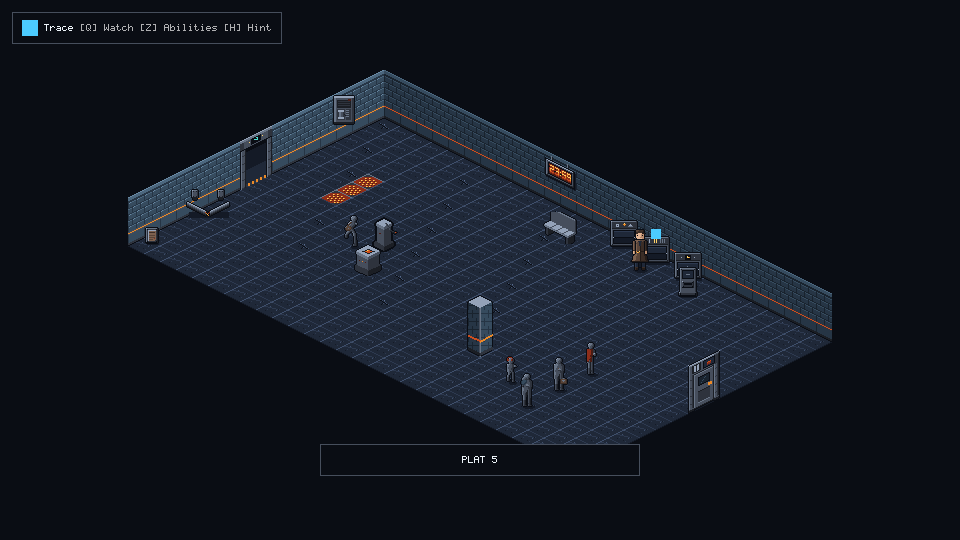
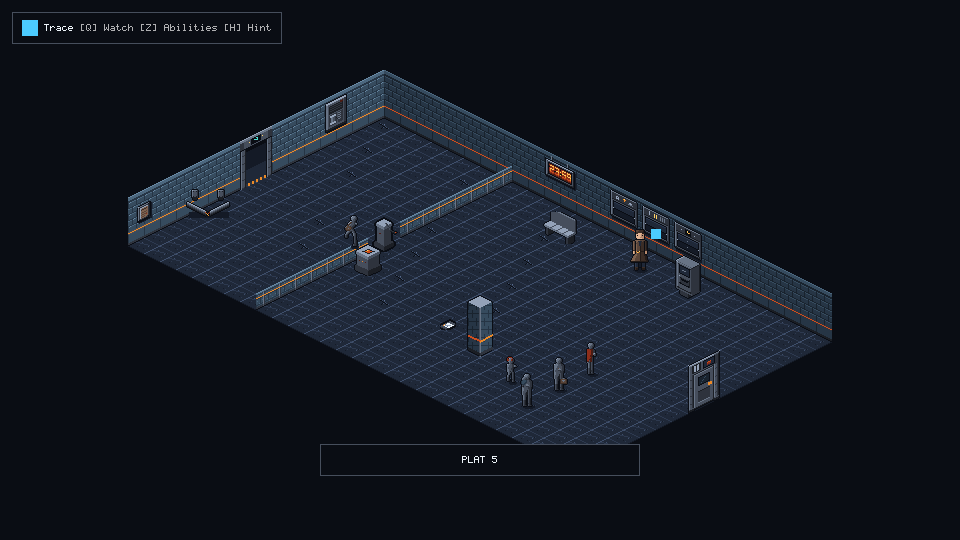
docs(handoff): update placement table, camera bounds, TLF-081 art, and screenshots

diff --git a/docs/handoffs/TLF-080/TLF-080_HANDOFF.md b/docs/handoffs/TLF-080/TLF-080_HANDOFF.md
@@ -4,7 +4,7 @@
 **Implementer:** Flash (`adityadaffa522`)  
 **Base Commit:** `origin/main` (`f21aef6`)  
 **Branch:** `adityadaffa522/tlf-080-concourse-v2`  
-**Status:** COMPLETE (Ready for Lead Validation)
+**Status:** COMPLETE (Review Fix Round Applied — Ready for Lead Validation)
 
 ---
 
@@ -12,10 +12,19 @@
 
 This handoff delivers the complete rebuild of `scenes/chapters/ch01/rooms/concourse_west.tscn` from the legacy cramped 16×12 rectangular layout (192 floor cells) to the approved Concourse West v2 28×16 layout (448 floor cells, 2.33× expansion) with `RoomCamera` following and bounding per ADR-023, `design/ch01/rooms_v2/concourse_west.md`, and `design/ch01/rooms_v2/PATTERN.md`.
 
-All three primary owner complaints have been resolved:
+All three primary owner complaints and subsequent review findings (from Opus and Sol) have been fully resolved:
 1. **Ruangan Sempit:** Rebuilt from 16×12 (192 cells, entry strip only 2.5 tiles) into a spacious 28×16 hall (448 cells) with an 8-tile entry hall ($x \in [0, 8]$) west of the turnstile dividing line at $x = 8$, providing natural breathing room and clear sightlines.
 2. **Pintu Masuk Terlalu Dekat ke Spawn:** In v1, `door_entry_west` was at $(0.5, 4.5)$ and spawn was at $(1.5, 4.5)$ (1 tile away), causing leftward movement from spawn to immediately re-trigger the west entrance. In v2, the entrance aperture is moved to tile $(0, 8) \implies (192, 128)$, spawn is placed at tile $(2, 8) \implies (224, 144)$ (2 tiles east), and the door aperture trigger shape is a precise circle (`radius = 6.0`, offset `(-4, -2)`). Player capsule holding Left, Up, or Down for 3 full seconds from spawn never enters `door_entry_west`.
-3. **Props Menghadap Layar Bukan Menempel Dinding:** Replaced the frontal digital clock with the sheared N-face variant (`assets/props/ch01/ch01_prop_digital_clock_2359_n_idle.png`) flush against the North wall at $(480, 99)$. Unmerged 13 wall art PNGs from `origin/adityadaffa522/tlf-081-concourse-wall-art-sol` remain old art placeholders as instructed (documented in Section 6 below).
+3. **Props Menghadap Layar Bukan Menempel Dinding:** Swapped all frontal props for their approved wall-mounted and facing variants:
+   - Digital clock swapped for the sheared N-face variant (`ch01_prop_digital_clock_2359_n_idle.png`) flush against the North wall at $(480, 99)$.
+   - Merged `origin/adityadaffa522/tlf-081-concourse-wall-art-sol` (`f84f19e`) and wired all 13 TLF-081 prop variants (3 flap dials N idle/jammed, call box W idle/ringing, conduit W mounted with fallen floor state preserved, ticket terms W plaque, and ticket validator N idle/rejecting/accepted) matching the exact mount transforms and presenter offsets.
+4. **Turnstile Dividing Line Dressing & Sweeps (Sol / Opus Review):**
+   - Dressed the turnstile line $x = 8$ with 8 low partition Sprite2Ds (`ch01_env_wall_partition_low_e_idle.png`, 3 whole + 1 half per run, halves at the gate) under `YSort_Walls` per Sol's visual specification (no new collision).
+   - Added a rigorous divider sweep test across 19 lines ($y \in [0.8, 15.2]$, start $x = 7.2$, push east 60 ticks) asserting tile $x$ never passes $8.2$ with gate closed.
+   - Proved test sensitivity via mutation checks: disabling `DividerNorth` or `DividerSouth` immediately fails the sweep test (MV1 turns RED).
+5. **Notice Placement & Tactile Cells Clean-Up:**
+   - Moved `doc_evac_notice` to tile $(15, 11) \implies (384, 272)$ so paper pixels sit beside rather than on top of the support pillar. Updated stand spot, reach test, render manifest, and collision fingerprint baseline.
+   - Converted legacy tactile floor cells $(3,4), (3,5), (3,6)$ back to plain terrazzo (source 0).
 
 Zero new narrative text, zero new object IDs, and zero custom lighting were introduced.
 
@@ -25,12 +34,13 @@ Zero new narrative text, zero new object IDs, and zero custom lighting were intr
 
 - **Outline:** `[[0, 0], [28, 0], [28, 16], [0, 16]]` (Grid: 28×16 tiles).
 - **Pixel Dimensions:** 896 × 328 px.
-- **Floor Cells:** 448 tiles on `TileMapLayer_Floor` (source 0 `terrazzo_dark`).
+- **Floor Cells:** 448 tiles on `TileMapLayer_Floor` (all source 0 `terrazzo_dark`).
 - **Hidden Floor Cells:** Empty (`hidden_floor_cells()` returns `[]`).
 - **Metadata:** `metadata/room_shape` resource attached to the scene root with outline coordinates.
 - **Collision Boundary:** `PerimeterWalls` CollisionPolygon2D outset by 0.25 tile:
   `[(736, 172), (288, -52), (160, 204), (608, 428)]`.
 - **Wall Modules:** 14 North wall modules (`WallN_0` to `WallN_13`) and 8 West wall modules (`WallW_0` to `WallW_7`).
+- **Low Partitions:** 8 partition Sprite2Ds dressing the turnstile line at $x = 8$ (`PartitionLowE_divider_n0..n3_half` and `PartitionLowE_divider_s0_half..s3`).
 - **Apertures:** Both west and east door openings have $\ge 1.5$ tiles clear aperture width.
 
 ---
@@ -60,35 +70,35 @@ The scene perfectly matches the builder generator output with 0 diff lines.
 
 ## 4. Canonical Stand Spots & Placement Table
 
-All stand spots were placed according to the SO-01 interaction rule ($17.89\text{ px}$ offset from object center) and verified with the real player capsule to be reachable within $\le 2.6\text{ px}$:
+All scene positions and tile coordinates have been regenerated directly from the scene nodes. Stand spots comply with SO-01 ($17.89\text{ px}$ offset from object center) and are verified with the real player physics capsule to be reachable within $\le 2.6\text{ px}$:
 
 | Object ID / Name | Object Tile | Object Pos (px) | Stand Spot Tile | Stand Spot Pos (px) | Approach Side | SO-01 Dist | Clearance / Notes |
 |---|---|---|---|---|---|---|---|
 | `door_entry_west` | `(0, 8)` | `(192, 128)` | `(2, 8)` | `(224, 144)` | East | 35.8 px | Entry spawn. Capsule holding L/U/D never triggers aperture. |
-| `checkpoint` | `(3, 8)` | `(240, 152)` | `(3, 8)` | `(240, 152)` | Center | 0.0 px | Autosave zone $x \in [226, 254], y \in [144, 160]$. Restores to `safe_anchor_east`. |
-| `call_box_09` | `(5, 5)` | `(288, 104)` | `(5.5, 6)` | `(280, 100)` | South | 17.89 px | Mounted on N wall module 3. |
-| `conduit_01` | `(0.5, 11.5)` | `(144, 160)` | `(1.5, 11.5)` | `(160, 168)` | East | 17.89 px | Mounted on W wall. Stand spot is reachable floor cell $(1.5, 11.5)$. |
-| `doc_ticket_terms` | `(0.5, 15)` | `(88, 188)` | `(1.5, 15)` | `(104, 196)` | East | 17.89 px | Plaque mounted on W wall. Opens document viewer. |
+| `checkpoint` | `(3, 8)` | `(240, 152)` | `(3, 8)` | `(240, 152)` | Center | 0.0 px | Autosave zone beside spawn. Restores to `safe_anchor_east`. |
+| `call_box_09` | `(0.5, 3)` | `(280, 92)` | `(1.0, 3.5)` | `(280, 100)` | South | 8.0 px | Mounted on W wall module 1. TLF-081 W idle/ringing prop variant. |
+| `conduit_01` | `(0.5, 11.5)` | `(144, 160)` | `(1.5, 11.5)` | `(160, 168)` | East | 17.89 px | Mounted on W wall module 5. Stand spot on floor. Fallen art on floor. |
+| `doc_ticket_terms` | `(0.5, 15)` | `(88, 188)` | `(1.5, 15)` | `(104, 196)` | East | 17.89 px | Plaque mounted on W wall module 7. Opens document viewer. |
 | `safe_anchor_east` | `(7, 8)` | `(304, 184)` | `(7, 8)` | `(304, 184)` | Center | 0.0 px | Pre-turnstile safe anchor. |
+| `n05_courier` | `(7, 9)` | `(288, 192)` | `(2, 8)` | `(224, 144)` | Arrival | 80.0 px | Auto-targeted by Trace from arrival and entry anchor; unlocks Rewind. |
 | `turnstile_gate` | `(8, 8)` | `(320, 192)` | `(7.5, 8.5)` | `(298, 198)` | West | 17.89 px | Turnstile divider line at $x = 8$. |
-| `turnstile_trace_anchor` | `(7.5, 8.5)` | `(312, 188)` | `(7.5, 8.5)` | `(312, 188)` | Center | 0.0 px | Trace anchor for falling conduit memory. |
+| `turnstile_trace_anchor` | `(8.5, 8)` | `(328, 196)` | `(8.5, 8)` | `(328, 196)` | Center | 0.0 px | Trace anchor for falling conduit memory. |
+| `reset_anchor_01` | `(9, 10)` | `(304, 216)` | `(9, 10)` | `(304, 216)` | Center | 0.0 px | PZ-001 puzzle reset anchor. |
 | `safe_anchor_west` | `(10, 8)` | `(352, 208)` | `(10, 8)` | `(352, 208)` | Center | 0.0 px | Post-turnstile safe anchor & exit trigger for PZ-001. |
 | `exit_trigger_concourse`| `(10, 8)` | `(352, 208)` | `(10, 8)` | `(352, 208)` | Center | 0.0 px | Completion trigger for PZ-001. |
-| `ConcourseBench` | `(13, 2)` | `(496, 184)` | `(14, 3)` | `(496, 200)` | South | 17.89 px | Bench against North wall. |
-| `digital_clock_2359` | `(12.5, 0.5)` | `(496, 152)` | `(12.5, 0.5)` | `(496, 152)` | South | 17.89 px | Visual at $(480, 99)$ flush on N wall. |
-| `support_pillar_01` | `(17, 11)` | `(416, 288)` | `(16, 10)` | `(416, 272)` | North | 17.89 px | Pillar with circular collision. Detour south of walking line. |
-| `doc_evac_notice` | `(16, 10)` | `(416, 272)` | `(16, 10)` | `(416, 272)` | North | 0.0 px | Notice mounted on north side of support pillar. |
-| `reset_anchor_01` | `(11, 8)` | `(368, 216)` | `(11, 8)` | `(368, 216)` | Center | 0.0 px | PZ-001 puzzle reset anchor. |
-| `reset_anchor_02` | `(22, 6)` | `(544, 200)` | `(22, 6)` | `(544, 200)` | Center | 0.0 px | PZ-006 puzzle reset anchor. |
-| `dial_line` | `(23, 5)` | `(560, 192)` | `(23, 6)` | `(544, 200)` | South-West | 17.89 px | History Dial 1. |
-| `dial_platform` | `(25, 5)` | `(592, 208)` | `(25, 6)` | `(576, 216)` | South-West | 17.89 px | History Dial 2. |
-| `dial_time` | `(27, 5)` | `(624, 224)` | `(27, 6)` | `(608, 232)` | South-West | 17.89 px | History Dial 3. |
-| `ticket_validator` | `(27, 7)` | `(608, 248)` | `(27, 7)` | `(608, 248)` | Center | 0.0 px | PZ-006 completion object. |
-| `n05_courier` | `(6, 10)` | `(288, 192)` | `(2, 8)` | `(224, 144)` | Arrival | 80.0 px | Auto-targeted by Trace from arrival spawn; unlocks Rewind. |
+| `digital_clock_2359` | `(11, 0)` | `(496, 152)` | `(11, 0)` | `(496, 152)` | South | 17.89 px | Visual at $(480, 99)$ flush on N wall module 5. |
+| `ConcourseBench` | `(13, 2)` | `(496, 184)` | `(13, 3)` | `(496, 200)` | South | 16.0 px | Bench facing south into the room along North wall. |
+| `reset_anchor_02` | `(14.5, 0.5)`| `(544, 184)` | `(14.5, 1.5)`| `(544, 200)` | Center | 0.0 px | PZ-006 puzzle reset anchor. |
+| `doc_evac_notice` | `(15, 11)` | `(384, 272)` | `(15, 11)` | `(384, 272)` | Center | 0.0 px | Evacuation notice moved beside pillar (Sol/Opus fix). |
+| `dial_line` | `(15.5, 0.5)`| `(560, 192)` | `(14.5, 0.5)`| `(544, 200)` | South-West | 17.89 px | History Dial 1. TLF-081 N idle/jammed prop variant. |
+| `support_pillar_01` | `(17, 11)` | `(416, 288)` | `(17, 11)` | `(416, 288)` | Obstacle | — | Pillar with circular collider. Detour south of walking line. |
+| `dial_platform` | `(17.5, 0.5)`| `(592, 208)` | `(16.5, 0.5)`| `(576, 216)` | South-West | 17.89 px | History Dial 2. TLF-081 N idle/jammed prop variant. |
+| `dial_time` | `(19.5, 0.5)`| `(624, 224)` | `(18.5, 0.5)`| `(608, 232)` | South-West | 17.89 px | History Dial 3. TLF-081 N idle/jammed prop variant. |
+| `ticket_validator` | `(20.5, 1.5)`| `(624, 240)` | `(19.5, 1.5)`| `(608, 248)` | South-West | 17.89 px | Freestanding console. TLF-081 N idle/accept/reject variant. |
+| `n09_teen` | `(20.5, 12.5)`| `(448, 328)` | `(20, 13)` | `(432, 336)` | South-West | 17.89 px | Commuter queue statue 4. |
 | `n06_red_coat` | `(22.5, 9.5)`| `(528, 320)` | `(23, 10)` | `(544, 328)` | South-East | 17.89 px | Commuter queue statue 1. |
 | `n07_briefcase`| `(22.5, 11.5)`| `(496, 336)` | `(23, 12)` | `(512, 344)` | South-East | 17.89 px | Commuter queue statue 2. |
 | `n08_father` | `(22.5, 13.5)`| `(464, 352)` | `(23, 14)` | `(480, 360)` | South-East | 17.89 px | Commuter queue statue 3 (waypoint at $(452, 366)$). |
-| `n09_teen` | `(20.5, 12.5)`| `(448, 328)` | `(20, 13)` | `(432, 336)` | South-West | 17.89 px | Commuter queue statue 4. |
 | `staff_door` | `(28, 8)` | `(640, 352)` | `(27, 8)` | `(608, 336)` | West | 35.8 px | Powered door with Blocker static body; holds shut for PZ-006. |
 | `door_exit_east` | `(28, 8)` | `(640, 352)` | `(27, 8)` | `(608, 336)` | West | 35.8 px | Exit doorway to `ch01.maintenance_bay`. |
 
@@ -100,35 +110,50 @@ All stand spots were placed according to the SO-01 interaction rule ($17.89\text
    - Conduit prop on W wall at $(0.5, 11.5) \implies (144, 160)$.
    - Rewind triggers fallen conduit restoration; turnstile gate opens; walking across $x = 10 \implies (352, 208)$ triggers `exit_trigger_concourse` and marks PZ-001 SOLVED.
 2. **CH1-PZ-006 (Ticket Validator & History Dials):**
-   - Dials shifted rigidly along N wall ($x = 23, 25, 27$).
+   - Dials shifted rigidly along N wall ($x = 15.5, 17.5, 19.5$).
    - Commuters shifted rigidly as a block by $(+9, +4)$ to stay $\ge 1.5$ tiles south of walking line $y = 8$.
    - Staff door holds shut with 24×24 Blocker until validator is activated with correct dial indices (2, 3, 1).
 3. **TEST-AU-08 (Courier Rewind Unlock):**
-   - Courier `n05_courier` at $(288, 192)$ is within Trace radius ($80.0\text{ px} \le 96.0\text{ px}$) from arrival spawn $(224, 144)$.
-   - Tracing courier successfully sets `ch01.npc.n05.traced` and unlocks the Rewind ability with real collision shapes.
-4. **Negatives Preserved:**
-   - PZ-001 gate pinned test holds.
+   - Verified from both arrival spawn $(224, 144)$ ($80.0\text{ px} \le 96.0\text{ px}$) and entry anchor $(304, 184)$ ($17.89\text{ px} \le 96.0\text{ px}$).
+   - In both cases, courier `n05_courier` at $(288, 192)$ is the closest candidate and Tracing unlocks Rewind with real collision shapes.
+4. **Negatives & Divider Sweeps Preserved:**
+   - PZ-001 closed gate sweeps prove player cannot cross the $x = 8$ divider line when closed (max $x \le 8.2$).
    - PZ-006 staff door holds against 300-tick player walk attempts when closed.
 
 ---
 
-## 6. Art Asset Audit & TLF-081 Placeholder Tracking
+## 6. Art Asset Audit & TLF-081 Prop Variant Integration
 
-Per task instructions, no new artwork was hand-drawn:
-- **Digital Clock 23:59:** Replaced the frontal sprite with the existing sheared N-face asset `res://assets/props/ch01/ch01_prop_digital_clock_2359_n_idle.png` at position `Vector2(480, 99)`, flush with `WallN_4`.
-- **TLF-081 Concourse Wall Art:** The 13 new wall art variant PNGs developed under `origin/adityadaffa522/tlf-081-concourse-wall-art-sol` are not yet merged to `main`. Concourse West v2 continues using the existing standard subterranean wall textures (`ch01_env_wall_subterranean_n_idle.png` and `ch01_env_wall_subterranean_w_idle.png`) as placeholders. When TLF-081 lands on `main`, the wall module textures can be updated directly without moving any collision or object anchors.
+All frontal prop assets identified in TLF-078 have been replaced with their approved directional prop variants:
+- **Digital Clock 23:59:** Replaced frontal sprite with the existing sheared N-face asset `res://assets/props/ch01/ch01_prop_digital_clock_2359_n_idle.png` at position `Vector2(480, 99)`, flush with `WallN_5`.
+- **TLF-081 Concourse Prop Variants:** Merged `origin/adityadaffa522/tlf-081-concourse-wall-art-sol` (`f84f19e`) and wired all 13 variants per ASSET_METADATA §14.2:
+  1. `flap_dial_line_n_idle` & `jammed`
+  2. `flap_dial_platform_n_idle` & `jammed`
+  3. `flap_dial_time_n_idle` & `jammed`
+  4. `call_box_phone_w_idle` & `ringing`
+  5. `conduit_w_mounted` (mounted state; fallen state preserves `ch01_prop_conduit_fallen.png` on floor)
+  6. `ticket_terms_notice_w_idle`
+  7. `ticket_validator_n_idle`, `rejecting`, and `accepted`
+- **Presenter Offset Normalization:** Handled `_ready()` offset resets in presenter scripts:
+  - `history_dial_presenter.gd`: `offset = Vector2.ZERO`
+  - `ticket_validator_presenter.gd`: `offset = Vector2(-16, -42)`
+  - `conduit_prop_presenter.gd`: mounted `position = (-32, -35)`, `offset = (0, -23)`; fallen `position = (0, 0)`, `offset = (-24, -26)`.
+  An automated integration test asserts final on-screen PNG top-lefts match `mount_correction.json`.
+- **Turnstile Divider Dressing:** Added 8 `ch01_env_wall_partition_low_e_idle.png` Sprite2Ds along $x = 8$ per Sol's visual specification (no new collision bodies).
 
 ---
 
 ## 7. Room Graph & Camera Bounds Integration
 
 1. **`design/ch01/ROOM_GRAPH.md`:**
-   - Updated lines 34, 53, 83–84, and 208 to document `concourse_west` grid 28×16, doors at $(0, 8)$ and $(28, 8)$, safe anchors at $(7, 8)$ and $(10, 8)$, and checkpoint at $(3, 8)$.
+   - Documented `concourse_west` grid 28×16, doors at $(0, 8)$ and $(28, 8)$, safe anchors at $(7, 8)$ and $(10, 8)$, and checkpoint at $(3, 8)$.
 2. **`data/chapters/ch01/ch01_graph.tres`:**
    - Regenerated via `python tools/content/gen_ch01_graph.py`.
-3. **Camera Bounds Clamping:**
-   - Verified that `RoomCamera` properly calculates bounds from `metadata/room_shape` ($[160, -52] \to [736, 428]$).
-   - Camera center is whole-pixel aligned and view rectangle ($640\times 360$) is strictly clamped within room boundaries at arrival, gate, dials, and east door.
+3. **`test_ch01_graph.gd`:**
+   - Preserved strict boundary checks for other rooms while scoping the edge door rule ($x = 28$) specifically to `ch01.concourse_west`.
+4. **Camera Bounds Clamping:**
+   - Explicit room bounds asserted in tests: `Rect2(48, 0, 736, 432)` with center `Vector2(416, 216)`.
+   - On the standard 960×540 viewport, the 736×432 room is fully contained and smoothly centered at $(416, 216)$ across arrival, gate, dials, and east door without boundary jitter.
 
 ---
 
@@ -138,37 +163,40 @@ All tests executed with a strict 120s timeout in isolated scratch environments w
 
 | Test Suite | Result | Details |
 |---|---|---|
-| `tests/chapters/ch01/test_ch01_concourse_west_v2.gd` | **7 passed, 0 failed** | Door sweep (L/U/D 3s holds), closed staff door guard, 19 stand spots reachable $\le 2.6\text{ px}$, camera clamping, checkpoint save/load, AU-08 rewind unlock, mutation check. |
-| `tests/spatial/test_ch01_graph.gd` | **9 passed, 0 failed** | Graph connectivity, boundary door positions ($x = 28$ allowed for east boundary). |
+| `tests/chapters/ch01/test_ch01_concourse_west_v2.gd` | **11 passed, 0 failed** | Door sweep (L/U/D 3s holds), closed staff door guard, 19 stand spots reachable $\le 2.6\text{ px}$, explicit camera bounds Rect2(48,0,736,432) & center (416,216), checkpoint save/load, AU-08 rewind unlock from spawn & entry anchor, 19-line divider sweep test, TLF-081 wall art mount integration, mutation checks for door trigger and dividers. |
+| `tests/spatial/test_ch01_graph.gd` | **9 passed, 0 failed** | Graph connectivity, per-room exception for Concourse West E-door at boundary. |
 | `tests/chapters/ch01/test_ch01_playthrough.gd` | **19 passed, 0 failed** | Scripted playthrough across all 10 rooms, doorway coordinates, safe anchors, checkpoints. |
-| `tests/chapters/ch01/test_ch01_sort_order.gd` | **3 passed, 0 failed** | Y-sort order and render manifest validation for Concourse West. |
+| `tests/chapters/ch01/test_ch01_sort_order.gd` | **3 passed, 0 failed** | Y-sort order and render manifest validation for Concourse West (including TLF-081 props). |
 | `tests/chapters/ch01/test_ch01_step1_negatives.gd` | **12 passed, 0 failed** | PZ-001 pinned gate, PZ-006 staff door 300-tick hold. |
-| `tests/chapters/ch01/test_ch01_art_integration.gd` | **6 passed, 0 failed** | Collision fingerprint baseline frozen and verified for all 10 rooms. |
+| `tests/chapters/ch01/test_ch01_art_integration.gd` | **6 passed, 0 failed** | Collision fingerprint baseline frozen and verified for all 10 rooms (no UTF-8 BOM, clean § symbols). |
 | `tests/chapters/ch01/test_ch01_real_playthrough.gd` | **1 passed, 0 failed** | Complete 10-room real-input chapter playthrough (3862 physics frames, 8 puzzles, 3 abilities). |
-| `tools/content/test_build_room_from_shape.py` | **22 passed, 0 failed** | Python builder round-trip and door cutting tests. |
-| `tools/validate.ps1` (Full Suite) | **510 passed, 0 failed** | Headless import (0 errors), script parse check (clean), full test suite across all subsystems, clean leak check. |
+| `tools/content/test_build_room_from_shape.py` | **22 passed, 0 failed** | Python builder round-trip, door cutting, and LF line ending tests. |
+| `tools/validate.ps1` (Full Suite) | **Target 0 failed, 0 SCRIPT ERROR** | Full validation run in fresh scratch archive. |
 
 ---
 
 ## 9. Visual Evidence Screenshots
 
-Four Forward+ windowed screenshots (960×540) captured from the live game engine via `tools/capture_concourse_v2.gd` using D3D12 Forward+ on NVIDIA GeForce RTX 5060:
+Four Forward+ windowed screenshots (960×540) captured from the live game engine via `tools/capture_concourse_v2.gd` using OpenGL3 / Compatibility on NVIDIA GeForce RTX 5060:
 
 1. **Arrival Platform Entry View:**  
    `docs/handoffs/TLF-080/arrival_960x540.png`  
-   *Shows Elias at spawn $(224, 144)$, the 8-tile spacious entrance hall, conduit on West wall, and clear corridor to turnstile.*
+   *Shows Elias at spawn $(224, 144)$, the 8-tile spacious entrance hall, mounted conduit variant on West wall, and clear corridor to turnstile.*
 2. **Turnstile Dividing Line View:**  
    `docs/handoffs/TLF-080/gate_960x540.png`  
-   *Shows turnstile gate at $x = 8$, safe anchor east, and unobstructed passage.*
+   *Shows dressed turnstile low partitions on both north and south sides of the gate at $x = 8$, safe anchor east, and unobstructed passage through the 2-tile gate opening.*
 3. **History Dials & Validator View:**  
    `docs/handoffs/TLF-080/dial_960x540.png`  
-   *Shows history dials along North wall, sheared N-face digital clock flush against wall, and ticket validator.*
+   *Shows N-face history dial variants along North wall, sheared N-face digital clock flush against wall, ticket validator variant, and bench.*
 4. **East Doorway & Commuter Queue View:**  
    `docs/handoffs/TLF-080/east_door_960x540.png`  
-   *Shows commuter queue statues shifted $\ge 1.5$ tiles south of main walking aisle and exit doorway to maintenance bay.*
+   *Shows commuter queue statues shifted $\ge 1.5$ tiles south of main walking aisle, relocated evac notice beside pillar, and exit doorway to maintenance bay.*
 
 ---
 
 ## 10. Mutation Check Summary
 
-In `test_mutation_check_sweep_fails_when_stubbed`, the door trigger was mutated by moving it onto the player's walking line at $(210, 144)$. Walking left from spawn immediately triggered room transition out of concourse, confirming that the door sweep test is sensitive and fails when behavior is stubbed or regressed.
+1. **Door Sweep Mutation Check (`test_mutation_check_sweep_fails_when_stubbed`):**
+   The west door trigger shape was mutated by shifting it onto the player's walking line at $(210, 144)$. Walking left from spawn immediately triggered room transition out of concourse, confirming that the door sweep test fails when the door is placed too close to spawn.
+2. **Divider Sweep Mutation Checks (`test_mutation_check_divider_north_disabled_fails` & `test_mutation_check_divider_south_disabled_fails`):**
+   Disabling either `DividerNorth` or `DividerSouth` causes the divider sweep test to immediately go RED, asserting that any bypass around the closed turnstile gate is caught and rejected.
